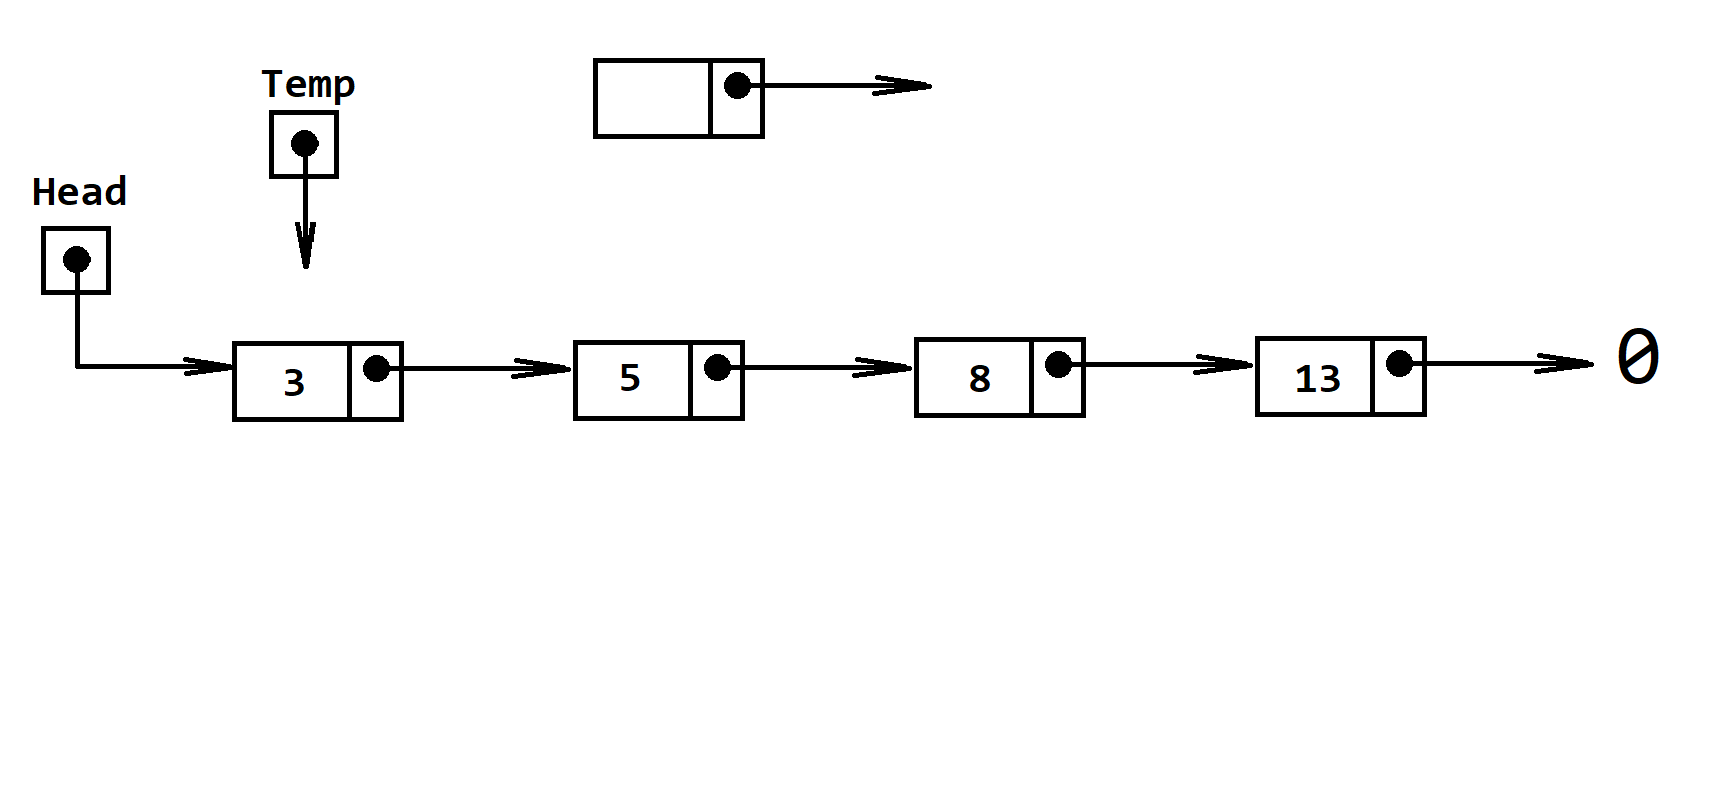
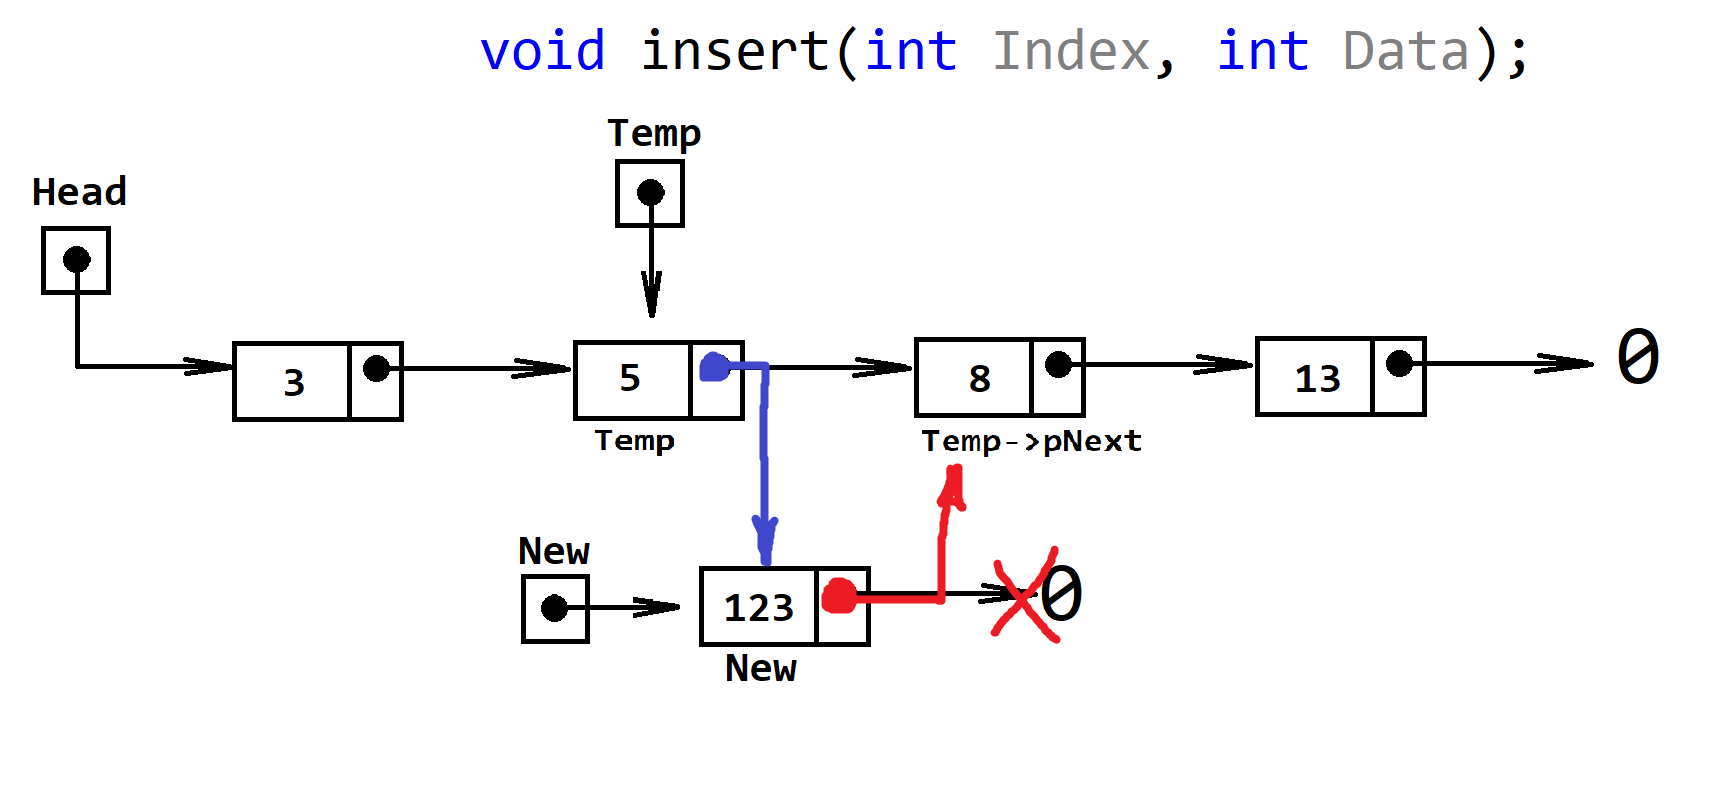
Copy & Move in ForwardList

diff --git a/DataContainers/ForwardList/main.cpp b/DataContainers/ForwardList/main.cpp
@@ -1,5 +1,8 @@
 #include<iostream>
 using namespace std;
+using std::cin;
+using std::cout;
+using std::endl;
 
 #define tab "\t"
 #define delimiter "\n-----------------------------------\n"
@@ -8,31 +11,90 @@ class Element
 {
 	int Data;			//Значение элемента
 	Element* pNext;		//Pointer to Next - указатель на следующий элемент
+	static int count;
 public:
 	Element(int Data, Element* pNext = nullptr) :Data(Data), pNext(pNext)
 	{
+		count++;
 		cout << "EConstructor:\t" << this << endl;
 	}
 	~Element()
 	{
+		count--;
 		cout << "EDestructor:\t" << this << endl;
 	}
 	friend class ForwardList;
 };
+int Element::count = 0;
 
 class ForwardList
 {
 	Element* Head;	//Голова списка, указывает на начальный элемент списка
+	int size;
 public:
+	int get_size()const
+	{
+		return size;
+	}
 	ForwardList()
 	{
 		//Конструктор по умолчанию, который создает пустой список
 		Head = nullptr;
+		size = 0;
 		cout << "LConstructor:\t" << this << endl;
+	}
+	explicit ForwardList(int size) :ForwardList()
+	{
+		while (size--)push_front(0);
+	}
+	ForwardList(const ForwardList& other) :ForwardList()
+	{
+		*this = other;	//Повторно используем код CopyAssignment
+		cout << "CopyConstructor:" << this << endl;
+	}
+	ForwardList(ForwardList&& other):ForwardList()
+	{
+		*this = std::move(other);	//Функция std::move() принудительно вызывает MoveAssignment для класса.
+		cout << "MoveConstructor:" << this << endl;
 	}
 	~ForwardList()
 	{
+		while (Head)pop_back();
 		cout << "LDestructor:\t" << this << endl;
+	}
+
+	//                       Operators:
+	ForwardList& operator=(const ForwardList& other)
+	{
+		if (this == &other)return *this;
+		this->~ForwardList();
+		for (Element* Temp = other.Head; Temp; Temp = Temp->pNext)
+			push_back(Temp->Data);
+		cout << "CopyAssignment:\t" << this << endl;
+		return *this;
+	}
+	ForwardList& operator=(ForwardList&& other)
+	{
+		if (this == &other)return *this;
+		this->~ForwardList();
+		this->Head = other.Head;
+		this->size = other.size;
+		other.Head = nullptr;
+		other.size = 0;
+		cout << "MoveAssignment:\t" << this << endl;
+	}
+
+	int& operator[](int index)
+	{
+		Element* Temp = Head;
+		for (int i = 0; i < index; i++)Temp = Temp->pNext;
+		return Temp->Data;
+	}
+	const int& operator[](int index)const
+	{
+		Element* Temp = Head;
+		for (int i = 0; i < index; i++)Temp = Temp->pNext;
+		return Temp->Data;
 	}
 
 	//					Adding elements:
@@ -46,6 +108,8 @@ public:
 
 		//3) Голову перенаправляем на новый элемент:
 		Head = New;
+
+		size++;
 	}
 	void push_back(int Data)
 	{
@@ -65,10 +129,85 @@ public:
 		//while((*Temp).pNext)
 		while (Temp->pNext)
 			Temp = Temp->pNext;
-		
+
 		//3) После того как мы оказались в конце списка, можно добавлять новый элемент в конец:
 		Temp->pNext = New;
+		size++;
 	}
+
+	void insert(int Index, int Data)
+	{
+		if (Index > size)
+		{
+			cout << "Error: out of range" << endl;
+			return;
+		}
+		if (Index == 0)return push_front(Data);
+		//1) Создаем новый элемент:
+		Element* New = new Element(Data);
+
+		//2) Доходим до гужного элемента:
+		Element* Temp = Head;
+		for (int i = 0; i < Index - 1; i++)
+		{
+			//if (Temp->pNext == nullptr)break;
+			Temp = Temp->pNext;
+		}
+
+		//3) Вставляем элемент в список:
+		New->pNext = Temp->pNext;
+		Temp->pNext = New;
+
+		size++;
+	}
+
+	//					Removing elements:
+	void pop_front()
+	{
+		if (Head == nullptr)return;
+		//1) Запоминаем вдрес удаляемого элемента:
+		Element* Erased = Head;
+
+		//2) Исключаем удаляемый элемент из списка:
+		Head = Head->pNext;
+
+		//3)  Удаляем эоемент из памяти:
+		delete Erased;
+
+		size--;
+		/*
+		-----------
+		new   - создает объект в динамической памяти
+		new[] - создает массив объектов в динамической памяти
+
+		delete   - удаляет 1 объект из динамической памяти
+		delete[] - удаляет массив объектов из динамической памяти
+
+		delete new ....;
+		delete[] new ...[...];
+		-----------
+		delete new ...[...];	//behaviour is undefined (поведение неопределено)
+		delete[] new ...;		//behaviour is undefined (поведение неопределено)
+		-----------
+		*/
+	}
+	void pop_back()
+	{
+		if (Head->pNext == nullptr)return pop_front();
+		//1) Доходим до предпоследнего элемента списка:
+		Element* Temp = Head;
+		while (Temp->pNext->pNext)Temp = Temp->pNext;
+
+		//2) Удаляем послений элемент из памяти:
+		delete Temp->pNext;
+
+		//3) Обнеляем указатель на последний элемент:
+		Temp->pNext = nullptr;
+
+		size--;
+	}
+
+
 
 	//					Methods:
 	void print()const
@@ -81,12 +220,28 @@ public:
 			cout << Temp << tab << Temp->Data << tab << Temp->pNext << endl;
 			Temp = Temp->pNext;	//Переход на следующий элемент.
 		}
+		cout << "Колтчество элементов списка: " << size << endl;
+		cout << "Общее колтчество элементов: " << Element::count << endl;
 	}
 };
+
+ForwardList operator+(const ForwardList& left, const ForwardList& right)
+{
+	ForwardList buffer;
+	for (int i = 0; i < left.get_size(); i++)buffer.push_back(left[i]);
+	for (int i = 0; i < right.get_size(); i++)buffer.push_back(right[i]);
+	return buffer;
+}
+
+//#define BASE_CHECK
+//#define COUNT_CHECK
+//#define SIZE_CONSTRUCTOR_CHECK
 
 void main()
 {
 	setlocale(LC_ALL, "");
+
+#ifdef BASE_CHECK
 	int n;
 	cout << "Введите воличество элементов списка: "; cin >> n;
 	ForwardList list;
@@ -96,6 +251,67 @@ void main()
 		list.push_back(rand() % 100);
 	}
 	list.print();
-	list.push_back(123);
+	/*list.push_back(123);
 	list.print();
+	list.pop_front();
+	list.print();*/
+	int index;
+	int value;
+	cout << "Введите индекс добавляемого элемента: "; cin >> index;
+	cout << "Введите значение добавляемого элемента: "; cin >> value;
+	list.insert(index, value);
+	list.print();
+#endif // BASE_CHECK
+
+#ifdef COUNT_CHECK
+	ForwardList list1;
+	list1.push_back(3);
+	list1.push_back(5);
+	list1.push_back(8);
+	list1.push_back(13);
+	list1.push_back(21);
+	list1.print();
+
+	ForwardList list2;
+	list2.push_back(34);
+	list2.push_back(55);
+	list2.push_back(89);
+	list2.print();
+#endif // COUNT_CHECK
+
+#ifdef SIZE_CONSTRUCTOR_CHECK
+	ForwardList list(5);
+	for (int i = 0; i < list.get_size(); i++)
+	{
+		list[i] = rand() % 100;
+	}
+	for (int i = 0; i < list.get_size(); i++)
+	{
+		cout << list[i] << tab;
+}
+	cout << endl;
+#endif // SIZE_CONSTRUCTOR_CHECK
+
+	ForwardList list1;
+	list1.push_back(3);
+	list1.push_back(5);
+	list1.push_back(8);
+	list1.push_back(13);
+	list1.push_back(21);
+	list1.print();
+
+	ForwardList list2;
+	list2.push_back(34);
+	list2.push_back(55);
+	list2.push_back(89);
+	list2.print();
+
+	cout << delimiter << endl;
+	//ForwardList list3 = list1 + list2;	//CopyConstructor
+	cout << delimiter << endl;
+	ForwardList list3;
+	cout << delimiter << endl;
+	list3 = list1 + list2;	//CopyAssignment
+	cout << delimiter << endl;
+	list3.print();
 }
